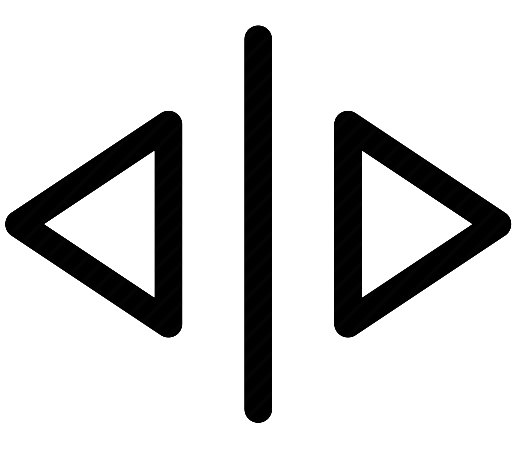
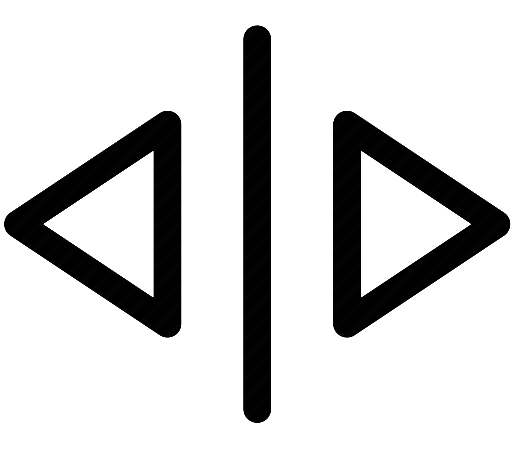
+Update: "Beautify" Symbols

diff --git a/src/main/java/at/fhhagenberg/esd/sqe/ws20/gui/ECCController.java b/src/main/java/at/fhhagenberg/esd/sqe/ws20/gui/ECCController.java
@@ -193,7 +193,7 @@ public class ECCController implements Initializable {
                     createFloorImageView("images/arrowUp.png", floors[i].requestUp),
                     createFloorImageView("images/arrowDown.png", floors[i].requestDown),
                     createFloorImageView("images/hand.png", floors[i].stopRequest),
-                    createFloorImageView("images/filler.jpeg", targetFloor.isEqualTo(i)),
+                    createFloorImageView("images/fillerReworked.png", targetFloor.isEqualTo(i)),
                     label,
                     line);
 
